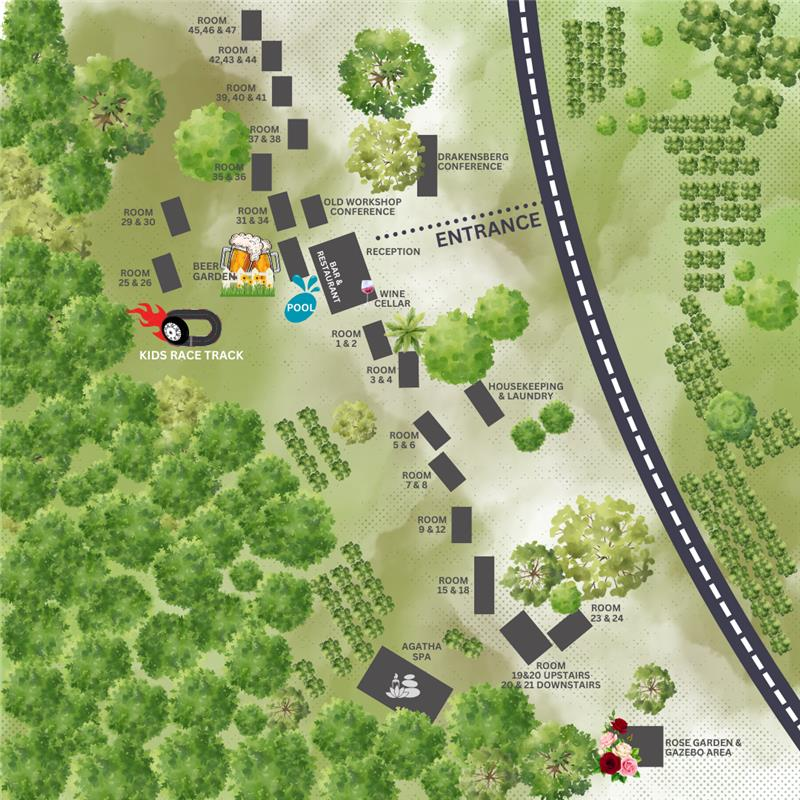
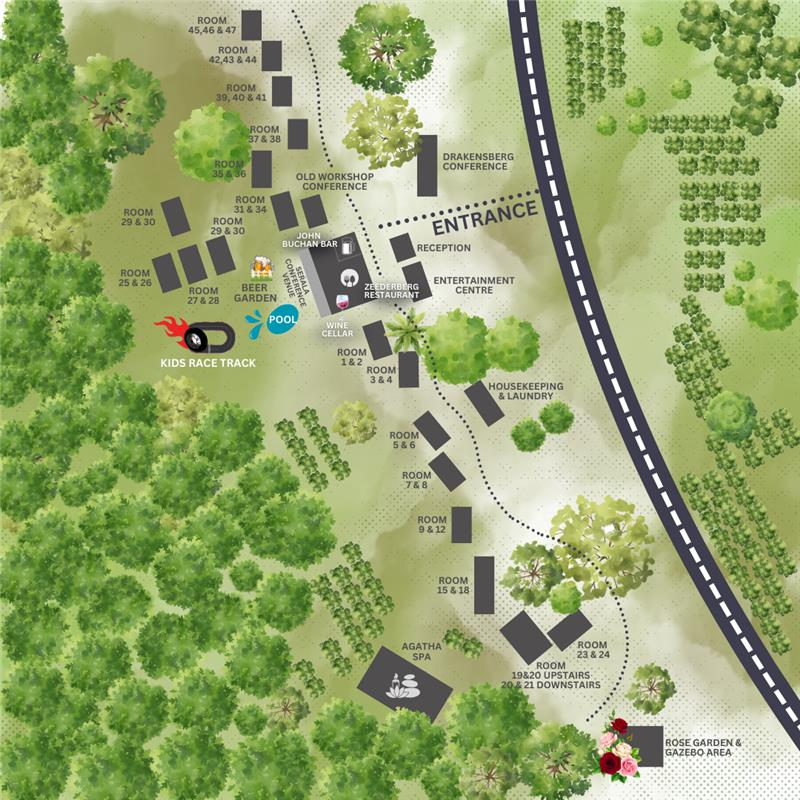
Updated guest directory images and magoebaskloof amenities data

diff --git a/js/data.js b/js/data.js
@@ -258,17 +258,19 @@ const hotelData = {
       <li><i class="fas fa-concierge-bell"></i><strong>Room Service</strong><br>Enjoy the comfort and convenience of our room service offering a selection of meals and drinks delivered right to your door.</li>
       <li><i class="fas fa-ice-cream"></i><strong>Mini Bar fridge</strong><br>Enjoy the convenience of a mini fridge in your room stocked upon request with your favourite beverages and snacks.</li>
       <li><i class="fas fa-utensils"></i><strong>Restaurant</strong><br>Savour a range of delicious dishes at our on-site restaurant where our chefs use the finest local ingredients to create memorable meals.</li>
-      <li><i class="fas fa-cocktail"></i><strong>Bar/Lounge</strong><br>Unwind with a drink at our well-stocked John Buchan bar featuring a selection of wines, spirits, and cocktails.</li>
+      <li><i class="fas fa-cocktail"></i><strong>Bar/Lounge</strong><br>Unwind with a drink at our well-stocked Phoenix & Fireman bar featuring a selection of wines, spirits, and cocktails.</li>
       <li><i class="fas fa-wheelchair"></i><strong>Disabled Access</strong></li>
-      <li><i class="fas fa-spa"></i><strong>Spa</strong><br>Relax and unwind at our Agatha Spa where you can explore a range of rejuvenating treatments tailored just for you.</li>
-      <li><i class="fas fa-tv"></i><strong>TV</strong><br>All rooms at Coach House are equipped with OpenView television sets for your entertainment.</li>
-      <li><i class="fas fa-smoking-ban"></i><strong>Non-Smoking Rooms</strong><br>At Coach House all our rooms are non-smoking for your comfort. For the convenience of our guests who smoke we have designated smoking areas.</li>
-      <li><i class="fas fa-briefcase"></i><strong>Meeting Rooms</strong><br>At Coach House Hotel and Spa we cater to our business travelers with top-notch meeting rooms. Our facilities are equipped with everything you need for a productive session ensuring a seamless experience.</li>
-      <li><i class="fas fa-water"></i><strong>Plaasdam</strong><br>For a slightly different and unique experience take a plunge in the “Plaasdam” next to our pool to enjoy cooling down with a cocktail in hand.</li>
-      <li><i class="fas fa-coffee"></i><strong>Coffee Room Service In The Morning</strong></li>
+      <li><i class="fas fa-spa"></i><strong>Spa</strong><br>Relax and unwind at our Spa where you can explore a range of rejuvenating treatments tailored just for you.</li>
+      <li><i class="fas fa-tv"></i><strong>TV</strong><br>All rooms at Magoebaskloof Hotel are equipped with OpenView television sets for your entertainment.</li>
+      <li><i class="fas fa-smoking-ban"></i><strong>Non-Smoking Rooms</strong><br>At Magoebaskloof Hotel, all our rooms are non-smoking for your comfort. For the convenience of our guests who smoke we have designated smoking areas.</li>
+      <li><i class="fas fa-briefcase"></i><strong>Meeting Rooms</strong><br>At Magoebaskloof Hotel and Spa we cater to our business travelers with top-notch meeting rooms. Our facilities are equipped with everything you need for a productive session ensuring a seamless experience.</li
+      <li><i class="fas fa-coffee"></i><strong>Coffee Lounge</strong><br>Sip on a fresh cup of coffee at the Misty Mountain Coffee Lounge</li>
       <li><i class="fas fa-child"></i><strong>Kiddies Activities</strong><br>Keep the little ones entertained with our range of kiddie’s activities</li>
-      <li><i class="fas fa-hiking"></i><strong>Walking & Hiking Trails</strong><br>Take the edge off and enjoy the great outdoors on our scenic walking and hiking trails at Coach House Hotel and Spa.</li>
-      <li><i class="fas fa-conference"></i><strong>Indoor and Outdoor Events & Conference Facilities</strong><br>Host your next event at Coach House Hotel and Spa with our versatile conference and event facilities. Whether indoors or outdoors we offer the perfect setting for your gathering.</li>
+      <li><i class="fas fa-hiking"></i><strong>Walking & Hiking Trails</strong><br>Take the edge off and enjoy the great outdoors on our scenic waterfall hiking trail. It's the perfect picnic spot.</li>
+      <li><i class="fas fa-conference"></i><strong>Indoor and Outdoor Events & Conference Facilities</strong><br>Host your next event at Magoebaskloof Hotel with our versatile conference and event facilities. Whether indoors or outdoors we offer the perfect setting for your gathering.</li>
+      <li><i class="fas fa-beer"></i><strong>Red Postbox Pub</strong><br>End off the day with a refreshing cold beer at the historic Red Postbox Pub.</li>
+      <li><i class="fas fa-table-tennis"></i><strong>Squash Courts</strong><br>Put on your game face and enjoy a game of squash.</li>
+
     </ul>
   `,
     nearbyAttractions: `
@@ -390,7 +392,8 @@ const hotelData = {
     name: "MONT AUX SOURCES",
     logo: "logos/MAS-logo.png",
     hotelPage: "https://montauxsources.co.za",
-    reviewLink: "#",
+    reviewLink:
+      "https://my-api.guestrevuapp.com/api/v1/kiosk/50b50c34f73e463e933180e3df963d2ec3de6e/en",
     welcomeMessage: `Dear Guest <br> Welcome to Mont Aux Sources Drakensberg Resort, managed by Orion Hotels & Resorts. We are delighted to have you with us and are committed to making your stay a memorable and enjoyable experience. Our team is dedicated to providing exceptional service and ensuring your comfort throughout your visit. Should you require any assistance or have any special requests during your stay, please do not hesitate to reach out to any member of our team.`,
     roomsAndAmenities: `
       <h4>Rooms & Suites</h4>
